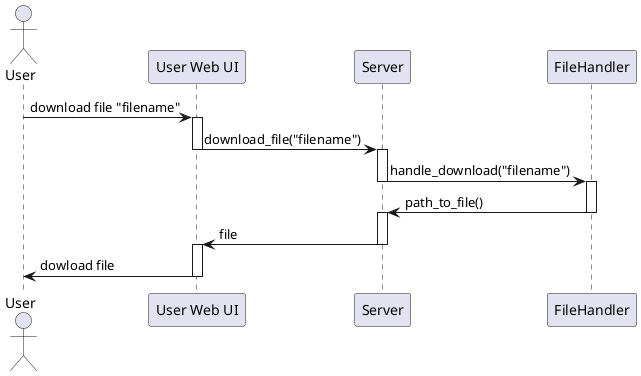
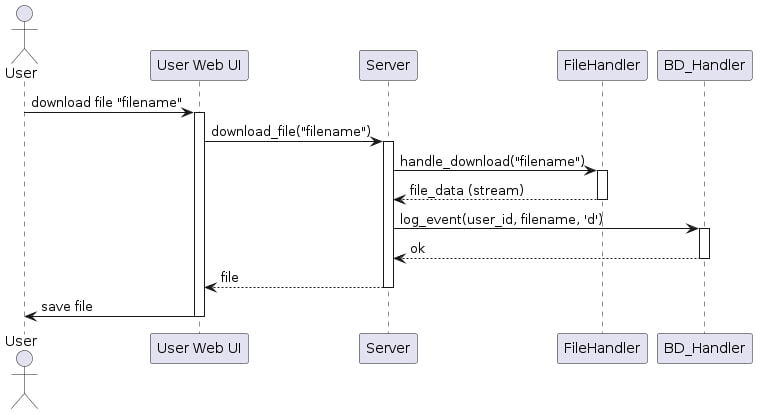
Docs: Change sequence download

diff --git a/sequence_dowload.md b/sequence_dowload.md
@@ -4,22 +4,29 @@ actor User as U
 participant "User Web UI" as UW
 participant "Server" as S
 participant "FileHandler" as FH
+participant "BD_Handler" as DB
 
 U -> UW: download file "filename"
 activate UW
+
 UW -> S: download_file("filename")
-deactivate UW
 activate S
+
 S -> FH: handle_download("filename")
-deactivate S
 activate FH
-FH -> S: path_to_file()
+FH --> S: file_data (stream)
 deactivate FH
-activate S
-S -> UW: file
+
+S -> DB: log_event(user_id, filename, 'd')
+activate DB
+DB --> S: ok
+deactivate DB
+
+S --> UW: file
 deactivate S
-activate UW
-UW -> U: dowload file
+
+UW -> U: save file
 deactivate UW
 @enduml
+
 ```
